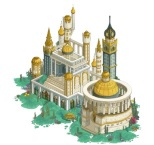
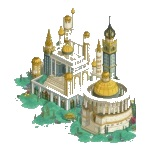
water image

diff --git a/AtlantisGame/src/gameObjects/WaterTile.java b/AtlantisGame/src/gameObjects/WaterTile.java
@@ -3,19 +3,32 @@ package gameObjects;
 import javafx.event.EventHandler;
 import javafx.scene.Node;
 import javafx.scene.control.Label;
+import javafx.scene.image.Image;
 import javafx.scene.input.MouseEvent;
+import javafx.scene.layout.Background;
+import javafx.scene.layout.BackgroundImage;
+import javafx.scene.layout.BackgroundPosition;
+import javafx.scene.layout.BackgroundRepeat;
+import javafx.scene.layout.BackgroundSize;
+import javafx.scene.layout.Border;
+import javafx.scene.layout.BorderStroke;
+import javafx.scene.layout.BorderStrokeStyle;
+import javafx.scene.layout.BorderWidths;
+import javafx.scene.layout.CornerRadii;
 import javafx.scene.paint.Color;
 import javafx.scene.shape.Rectangle;
 
 public class WaterTile extends Tile {
-	Rectangle water = new Rectangle(50, 50);
+	Rectangle water = new Rectangle(75, 75);
 	int waterId;
 
 	public WaterTile(final int tileId) {
 		super(tileId);
 		waterId=tileId;
 
-		water.setFill(Color.LIGHTBLUE);
+		water.setFill(Color.TRANSPARENT);
+		water.setStroke(Color.BLACK);
+		
 		this.getChildren().add(water);
 
 	
@@ -27,7 +40,7 @@ public class WaterTile extends Tile {
 
 			@Override
 			public void handle(MouseEvent e) {
-				water.setFill(Color.BLUE);
+				water.setStroke(Color.BLACK);
 				e.consume(); 
 			}
 

diff --git a/AtlantisGame/src/gameObjects/MainBoard.java b/AtlantisGame/src/gameObjects/MainBoard.java
@@ -3,11 +3,17 @@ package gameObjects;
 import java.util.HashMap;
 import java.util.Map;
 
+import javafx.scene.image.Image;
+import javafx.scene.layout.Background;
+import javafx.scene.layout.BackgroundImage;
+import javafx.scene.layout.BackgroundPosition;
+import javafx.scene.layout.BackgroundRepeat;
+import javafx.scene.layout.BackgroundSize;
 import javafx.scene.layout.GridPane;
 // remember to check MVC slides for girdpane resizing
 public class MainBoard extends GridPane {
 	private final int numberOfTiles;
-
+	
 	/*
 	 * public Map<Integer, WaterTile> initialBoard = createBaseBoard();
 	 * 
@@ -17,6 +23,9 @@ public class MainBoard extends GridPane {
 	 */
 
 	public MainBoard(int numberOfTiles){
+		Image im = new Image(getClass().getResourceAsStream("images4Tiles/water.jpg")); 
+		this.setBackground(new Background(new BackgroundImage(im, BackgroundRepeat.NO_REPEAT,
+				BackgroundRepeat.NO_REPEAT, BackgroundPosition.CENTER, BackgroundSize.DEFAULT)));
 		
 		this.numberOfTiles=numberOfTiles;
 			//this is part of view for later
@@ -34,7 +43,7 @@ public class MainBoard extends GridPane {
 		this.add(new AtlantisTile(0), 0, 0,2,2);
 		
 		//put the mainland Tile
-		this.add(new MainLand(999), 8, 8,2,2); 
+		this.add(new MainLand(999), 7, 7,2,2); 
 		
 		
 		

diff --git a/AtlantisGame/src/client/intro/MainAli.java b/AtlantisGame/src/client/intro/MainAli.java
@@ -40,7 +40,7 @@ public class MainAli extends Application {
 			p2.addCard(card);
 		}
 		
-	MainBoard gp = new MainBoard(100);
+	MainBoard gp = new MainBoard(70);
 
 		BorderPane root = new BorderPane();
 		BorderPane.setAlignment(gp, Pos.CENTER);
